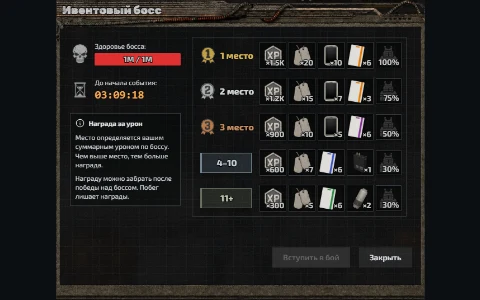
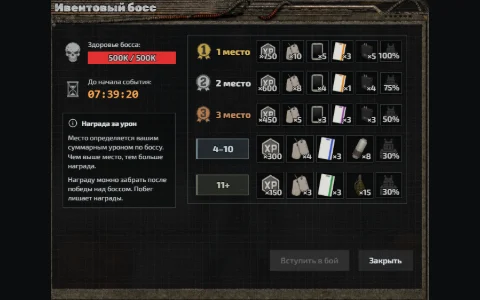
Update Experiment 31 boss rewards
Reduce the boss's health to 500,000 and revise placement rewards, including grenade rewards and a new icon. Refresh the event news images and update the listed health.

diff --git a/info-bosses.js b/info-bosses.js
@@ -66,7 +66,7 @@
   const EVENT = {
     key: "experiment",
     name: "Эксперимент №31",
-    hp: 1000000,
+    hp: 500000,
     set: {
       name: "Пятничный вечер",
       img: "friday",
@@ -74,11 +74,11 @@
     },
     dates: "с 23 октября по 6 ноября",
     rewards: [
-      { place: "1", exp: 1500, tokens: 20, pda: 10, key: "orange", keyCount: 6, set: 100 },
-      { place: "2", exp: 1200, tokens: 15, pda: 7, key: "orange", keyCount: 3, set: 75 },
-      { place: "3", exp: 900, tokens: 10, pda: 5, key: "purple", keyCount: 6, set: 50 },
-      { place: "4–10", exp: 600, tokens: 7, key: "blue", keyCount: 6, extra: "gauss", extraCount: 1, set: 30 },
-      { place: "11+", exp: 300, tokens: 5, key: "green", keyCount: 6, extra: "ubgl", extraCount: 2, set: 30 }
+      { place: "1", exp: 750, tokens: 10, pda: 5, key: "orange", keyCount: 3, extra: "gauss", extraCount: 5, set: 100 },
+      { place: "2", exp: 600, tokens: 8, pda: 4, key: "orange", keyCount: 1, extra: "gauss", extraCount: 4, set: 75 },
+      { place: "3", exp: 450, tokens: 5, pda: 3, key: "purple", keyCount: 3, extra: "gauss", extraCount: 3, set: 50 },
+      { place: "4–10", exp: 300, tokens: 4, key: "blue", keyCount: 3, extra: "ubgl", extraCount: 8, set: 30 },
+      { place: "11+", exp: 150, tokens: 3, key: "green", keyCount: 3, extra: "grenade", extraCount: 15, set: 30 }
     ]
   };
   /* ресурсы награды: подписи и иконки те же, что во вкладке «Задания» */
@@ -115,6 +115,10 @@
     ubgl: {
       name: "Выстрел гранатомёта",
       icon: '<img src="assets/bosses/ubgl.webp" alt="" width="18" height="18" loading="lazy" decoding="async">'
+    },
+    grenade: {
+      name: "Граната",
+      icon: '<img src="assets/bosses/grenade.webp" alt="" width="18" height="18" loading="lazy" decoding="async">'
     }
   };
   const VEST_ICO =
@@ -270,7 +274,7 @@
             "</tr>"
         )
         .join("") +
-      '</tbody></table></div><p class="boss-reward-note">Ключ - карточка босса указанного цвета, Доп. - выстрел Гаусса или гранатомёта. Сет - шанс получить вещь комплекта «Пятничный вечер».</p></div>'
+      '</tbody></table></div><p class="boss-reward-note">Ключ - карточка босса указанного цвета, Доп. - граната, выстрел Гаусса или гранатомёта. Сет - шанс получить вещь комплекта «Пятничный вечер».</p></div>'
     );
   }
   function eventCard() {

diff --git a/news.js b/news.js
@@ -19,7 +19,7 @@ window.ZONE_NEWS = [
     title: "Обновление: Хэллоуин и босс «Эксперимент №31»",
     text: "Тематическое оформление, ивентовый босс с общим здоровьем и наградами по урону, новый комплект и переработанная Арена",
     points: [
-      "Ивентовый босс «Эксперимент №31»: 1 000 000 HP, общий запас здоровья и место по личному урону; появляется 2 раза в день - в 05:00 и 18:00 по МСК",
+      "Ивентовый босс «Эксперимент №31»: 500 000 HP, общий запас здоровья и место по личному урону; появляется 2 раза в день - в 05:00 и 18:00 по МСК",
       "Награды по местам: 1-е - 100%, 2-е - 75%, 3-е - 50%, 4-10 - 30%, 11+ - 30% (шанс на комплект «Пятничный вечер»); забрать можно после победы над боссом",
       "Бонусы вещей теперь работают по отдельности: полный комплект собирать не нужно, каждая часть усиливает персонажа сразу",
       "Арена: 10 бесплатных боёв в день, последующие - за билеты; награда за победы пересчитана",
